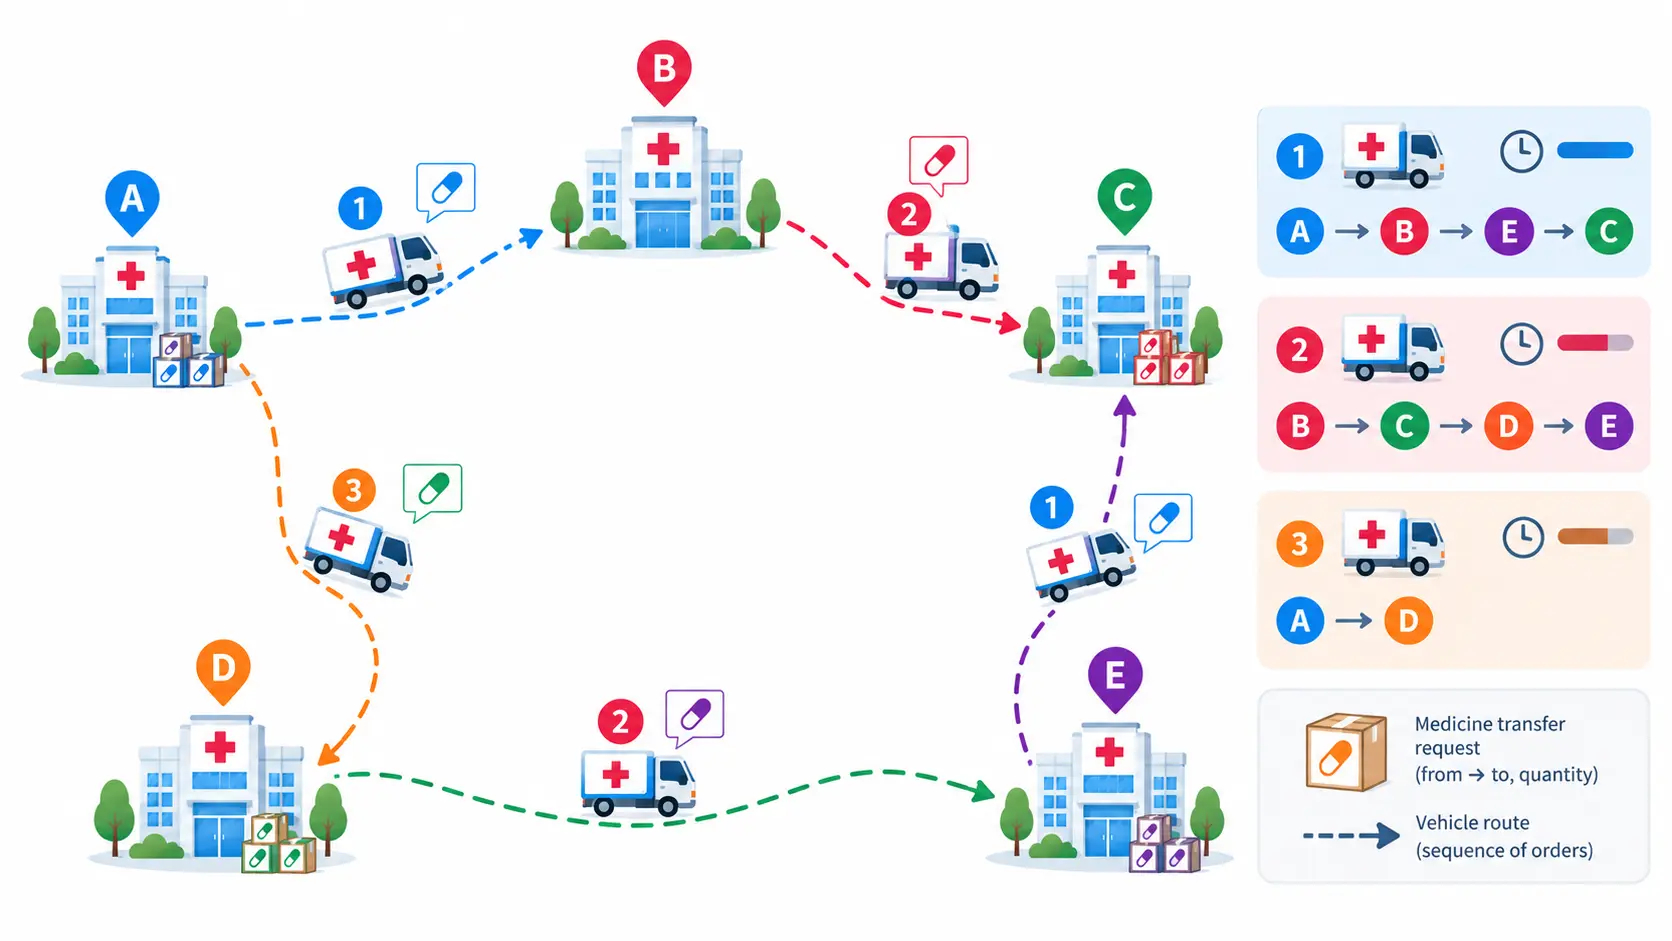
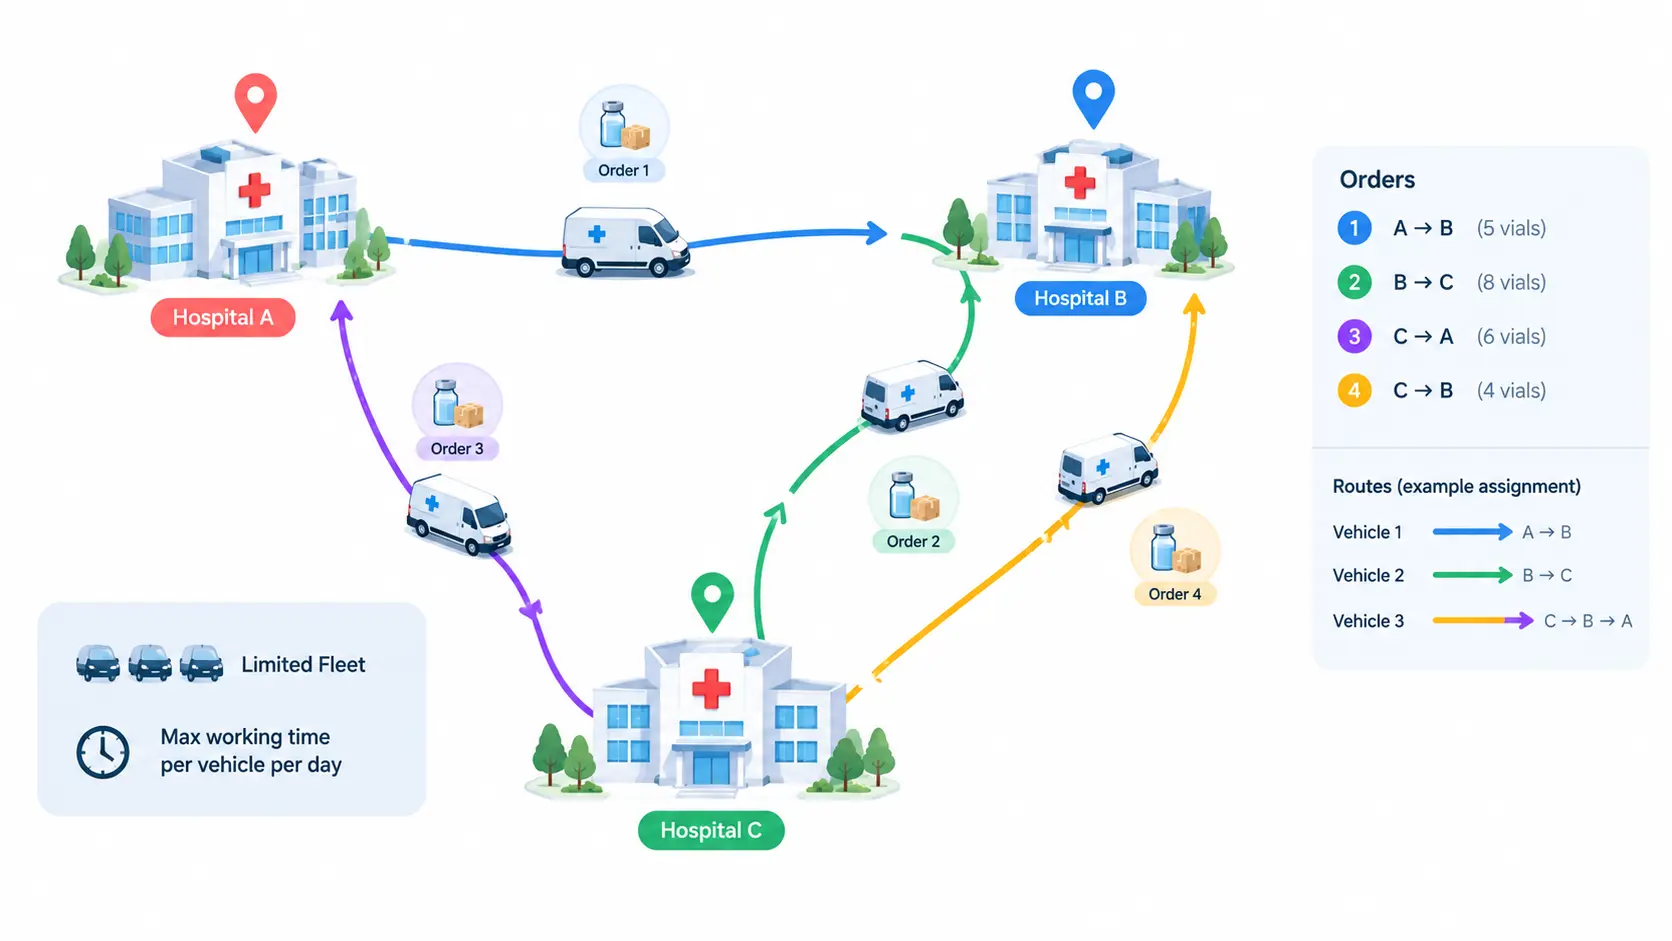
سش

diff --git a/src/content/notes/epsilon-constraint-bi-objective/epsilon-constraint-bi-objective.md b/src/content/notes/epsilon-constraint-bi-objective/epsilon-constraint-bi-objective.md
@@ -1,0 +1,139 @@
+---
+title: "تکنیک اپسیلون محدود برای بهینهسازی دو هدفه"
+description: "وقتی دو تابع هدف با هم در تضادند، یک جواب «بهینه» به تنهایی معنا ندارد. با تکنیک اپسیلون محدود (Epsilon-Constraint) میتوان کل مرز پارتو را ترسیم کرد، با یک مثال کامل غیرخطی و کد GAMS."
+pubDate: 2026-09-11
+author: "dr-soroudi"
+minimalImage: "./epsilon-constraint-mini.webp"
+minimalImageAlt: "نمودار مینیمال مرز پارتو با چند نقطهی بهینه غیرقابلغلبه"
+image: "./epsilon-constraint-mid.webp"
+imageAlt: "نمودار پراکندگی مرز پارتو حاصل از تکنیک اپسیلون محدود برای دو تابع هدف متعارض"
+tags: ["بهینهسازی", "بهینهسازی چندهدفه", "مرز پارتو", "GAMS", "برنامهریزی غیرخطی"]
+relatedCourses: ["optimization-modeling"]
+relatedNotes: ["mathematical-modeling-art", "pyomo-solvers"]
+---
+
+در خیلی از مسائل واقعی، یک هدف بهتنهایی کافی نیست. یک شرکت هم میخواهد هزینه را کم کند، هم میخواهد کیفیت خدمات را بالا ببرد. یک برنامهریز شبکهی برق هم دنبال کمینهکردن هزینهی سرمایهگذاری است، هم دنبال کمینهکردن ریسک. مشکل اینجاست که این دو هدف معمولاً با هم در تضادند: بهبود یکی، معمولاً به قیمت بدترشدن دیگری تمام میشود. در چنین شرایطی، عبارت «جواب بهینه» دیگر یک نقطهی مشخص نیست؛ بلکه مجموعهای از جوابهاست که هیچکدام از دیگری «کاملاً بهتر» نیست. به این مجموعه، **مرز پارتو** (Pareto Front) میگویند.
+
+سوال عملی این است: چطور میتوان کل این مرز را، نه فقط یک نقطهی دلبخواه روی آن، بهصورت سیستماتیک به دست آورد؟ یکی از پرکاربردترین جوابها، تکنیک **اپسیلون محدود** (Epsilon-Constraint Method) است.
+
+## چرا این روش را به روش وزندهی ترجیح میدهیم
+
+رایجترین راهی که افراد ابتدا امتحان میکنند، ترکیب دو هدف در یک تابع وزندار است:
+
+$$\min \; w_1 f_1(x) + w_2 f_2(x)$$
+
+این روش ساده است، اما دو ضعف مهم دارد. اول، انتخاب وزنها ($w_1$, $w_2$) دلبخواهی است و معلوم نیست چه نسبتی از وزنها، چه نقطهای از مرز پارتو را نتیجه میدهد. دوم، و مهمتر، اگر مرز پارتو **غیرمحدب** (non-convex) باشد، هیچ ترکیبی از وزنها نمیتواند بخشهای فرورفتهی مرز را پیدا کند — آن نقاط برای این روش اصلاً «دیده نمیشوند».
+هر بار که اهمیت و وزن توابع هدف عوض شود باید مساله مجددا حل شود.
+تکنیک اپسیلون محدود این مشکل را دور میزند. ایده این است: بهجای ترکیب دو هدف، فقط یکی را بهینه میکنیم و دیگری را به یک **قید** تبدیل میکنیم:
+
+$$\max \; f_1(x) \quad \text{s.t.} \quad f_2(x) \geq \varepsilon,\ \ x \in \mathcal{X}$$
+
+با تغییر تدریجی $\varepsilon$ در بازهی مقادیر ممکن $f_2$، هر بار یک نقطهی جدید از مرز پارتو به دست میآید — از جمله نقاطی که روش وزندهی از دیدنشان عاجز است.
+
+## فرمولبندی ریاضی مسئله
+
+برای اینکه ایده انتزاعی نماند، یک مثال کامل غیرخطی را حل میکنیم. دو متغیر تصمیم داریم:
+
+$$x_1, x_2 \in \mathbb{R}$$
+
+و دو تابع هدف متعارض:
+
+$$\text{of}_1 = 4x_1 - 0.5x_2^2$$
+$$\text{of}_2 = -x_1^2 + 5x_2$$
+
+با این محدودیتها:
+
+$$2x_1 + 3x_2 \leq 10$$
+$$2x_1 - x_2 \geq 0$$
+$$1 \leq x_1 \leq 2, \quad 1 \leq x_2 \leq 3$$
+
+چون هر دو تابع هدف شامل جملهی درجهدوماند ($x_1^2$ و $x_2^2$)، این یک مسئلهی **برنامهریزی غیرخطی** (NLP) است، نه یک مسئلهی خطی ساده.
+
+**رویهی اپسیلون محدود روی این مثال، سه گام دارد:**
+
+۱. ابتدا $\text{of}_1$ را بهتنهایی بیشینه میکنیم (بدون توجه به $\text{of}_2$) تا سقف $\text{of}_1$ و مقدار متناظر $\text{of}_2$ (کف بازهی $\varepsilon$) به دست بیاید.
+
+۲. سپس $\text{of}_2$ را بهتنهایی بیشینه میکنیم تا سقف بازهی $\varepsilon$ مشخص شود.
+
+۳. بازهی بهدستآمده برای $\text{of}_2$ را به تعداد دلخواه (مثلاً ۲۱ نقطه) به بازههای مساوی تقسیم میکنیم؛ برای هر مقدار $\varepsilon$، مسئلهی زیر را حل میکنیم:
+
+$$\max \; \text{of}_1 \quad \text{s.t.} \quad \text{of}_2 \geq \varepsilon$$
+
+هر بار حل این مسئله، یک نقطهی جدید از مرز پارتو میدهد. کنار هم گذاشتن همهی این نقاط، کل مرز را میسازد.
+
+### کد GAMS
+
+همین رویه، در قالب کد GAMS اینطور نوشته میشود:
+
+```gams
+Variable of1, of2, x1, x2;
+Equation eq1, eq2, eq3, eq4;
+
+eq1.. 4*x1 - 0.5*sqr(x2) =e= of1;
+eq2.. -sqr(x1) + 5*x2    =e= of2;
+eq3.. 2*x1 + 3*x2        =l= 10;
+eq4.. 2*x1 -   x2        =g=  0;
+
+x1.lo = 1; x1.up = 2;
+x2.lo = 1; x2.up = 3;
+
+Model pareto1 / all /;
+
+Set counter / c1*c21 /;
+Scalar E;
+Parameter report(counter,*), ranges(*);
+
+solve pareto1 using nlp maximizing of1;
+ranges('OF1max') = of1.l;
+ranges('OF2min') = of2.l;
+
+solve pareto1 using nlp maximizing of2;
+ranges('OF2max') = of2.l;
+ranges('OF1min') = of1.l;
+
+loop(counter,
+   E = (ranges('OF2max') - ranges('OF2min'))*(ord(counter) - 1)/(card(counter) - 1) + ranges('OF2min');
+   of2.lo = E;
+   solve pareto1 using nlp maximizing of1;
+   report(counter,'OF1') = of1.l;
+   report(counter,'OF2') = of2.l;
+   report(counter,'E')   = E;
+);
+display report;
+```
+
+نکتهی کلیدی خط `of2.lo = E؛` است: همان جایی که هدف دوم را به یک کف (قید) تبدیل میکنیم و اجازه میدهیم سالور فقط $\text{of}_1$ را بیشینه کند. حلقهی `counter` هم دقیقاً همان سوییپ ۲۱-نقطهای روی $\varepsilon$ است.
+
+## نکات و دامهای رایج این روش
+
+مسئلهی این مثال فقط دو هدف دارد، اما در عمل ممکن است با سه یا چهار هدف هم روبهرو شوید. در آن حالت، میتوان یک هدف را بیشینه کرد و بقیه را همگی به قید تبدیل کرد — به قیمت افزایش تعداد ترکیبهای $\varepsilon$ که باید بررسی شوند (که بهسرعت رشد نمایی پیدا میکند).
+
+دام رایج دیگر، **جوابهای ضعیفاً کارا** (weakly efficient) است: ممکن است نقطهای قید $f_2 \geq \varepsilon$ را دقیقاً با تساوی برآورده کند، بدون اینکه واقعاً روی مرز پارتوی قوی باشد. نسخهی پیشرفتهتر این روش، به نام **AUGMECON**، با افزودن یک جملهی کوچک از هدف دوم به تابع هدف اول، این مشکل را برطرف میکند.
+
+## پیادهسازی با پایتون
+
+اگر مدل شما هم مثل این مثال غیرخطی است، میتوانید دقیقاً همین رویه را با **Pyomo** پیادهسازی کنید: تابع هدف دوم را بهعنوان یک `Constraint` با کران پایین متغیر تعریف کنید، داخل یک حلقهی پایتون مقدار آن کران را تغییر دهید، و هر بار مدل را با یک سالور NLP مثل **Ipopt** حل کنید. اگر مدل شما خطی یا مختلط-عدد صحیح است، همین رویه با سالورهایی مثل CBC یا HiGHS هم به همان راحتی کار میکند. این دقیقاً همان مهارتی است که در دورهی [مدلسازی مسائل بهینهسازی](/courses/optimization-modeling/) قدمبهقدم آموزش داده میشود.
+
+این تکنیک صرفاً یک نکتهی تئوری نیست؛ در دورهی پیشرفتهی [بهینهسازی سیستم قدرت](/courses/power-systems-optimization/) دقیقاً همین قدرت تکنیک اپسیلون محدود را روی مسائل واقعی سیستم قدرت دیدیم و آموزش مفصل پیادهسازی آن در پایتون هم در همان دوره داده شده است.
+
+از نظر ساختار کد، تنها تفاوت نسخهی پایتون با نسخهی GAMS بالا، جایگذاری حلقهی `for` بهجای `loop` و بازتعریف کران قید در هر تکرار است — منطق ریاضی مسئله دقیقاً همان چیزی است که در فرمولبندی بالا آمد.
+
+## اجرای مدل روی سرور NEOS، بدون نصب سالور
+
+نکتهای که خیلی وقتها نادیده گرفته میشود این است که برای حل این مدلها، لزوماً نیازی به نصب GAMS یا یک سالور NLP تجاری روی سیستم خودتان نیست. **سرور NEOS** (Network-Enabled Optimization System) یک سرویس رایگان و دانشگاهی است که امکان اجرای مدل — از جمله همین مدل غیرخطی بالا — را روی سرورهای قدرتمند از راه دور فراهم میکند، با دسترسی به دهها سالور مختلف (از جمله Ipopt، CONOPT، BARON و Knitro) بدون اینکه هیچکدام را روی سیستم خودتان نصب کرده باشید. این ویژگی بهخصوص برای دانشجویانی که به لایسنس سالورهای تجاری دسترسی ندارند، یا برای مدلهای سنگینتر که به منابع محاسباتی بیشتری نیاز دارند، بسیار کاربردی است. مدل Pyomo یا فایل GAMS را میتوان مستقیماً به NEOS ارسال کرد و نتیجه را دریافت کرد.
+
+آموزش تصویری استفاده از NEOS برای این نوع مدلها را اینجا ببینید: [ویدیوی آموزشی اجرای مدل روی سرور NEOS](https://www.aparat.com/v/kxdl610)
+
+## سوالات متداول
+
+<h3>تفاوت اپسیلون محدود با روش وزندهی (weighted sum) چیست؟</h3>
+<p>روش وزندهی دو هدف را در یک تابع ترکیب میکند و به ازای هر ترکیب وزن، یک جواب میدهد؛ اما نمیتواند نقاط روی بخش غیرمحدب مرز پارتو را پیدا کند. اپسیلون محدود یک هدف را قید میکند و دیگری را بهینه میکند، و با سوییپ کردن مقدار قید، کل مرز — از جمله بخشهای غیرمحدب — را پوشش میدهد.</p>
+
+<h3>آیا این روش فقط برای دو هدف کار میکند؟</h3>
+<p>نه؛ میتوان آن را به بیش از دو هدف هم تعمیم داد. در آن حالت یک هدف بهینه میشود و بقیه همگی به قید تبدیل میشوند. نکته این است که تعداد ترکیبهای لازم برای سوییپ، با افزایش تعداد اهداف بهسرعت رشد میکند.</p>
+
+<h3>چرا مثال این یادداشت یک NLP است، نه یک مسئلهی خطی ساده؟</h3>
+<p>چون هر دو تابع هدف شامل جملهی درجهدوم هستند. خودِ تکنیک اپسیلون محدود به نوع مسئله (خطی، غیرخطی، عدد صحیح) وابسته نیست و در هر سه حالت به همین شکل کار میکند؛ فقط باید سالور متناسب با نوع مسئله انتخاب شود.</p>
+
+<h3>برای پیادهسازی عملی این تکنیک از کجا شروع کنم؟</h3>
+<p>در دورهی <a href="/courses/optimization-modeling/" style="color:#2563EB; font-weight:bold;">مدلسازی مسائل بهینهسازی</a> مبانی تعریف متغیر، تابع هدف و قید در Pyomo از پایه آموزش داده میشود؛ پایهی خوبی برای اضافهکردن حلقهی سوییپ اپسیلون روی مدل خودتان.</p>
